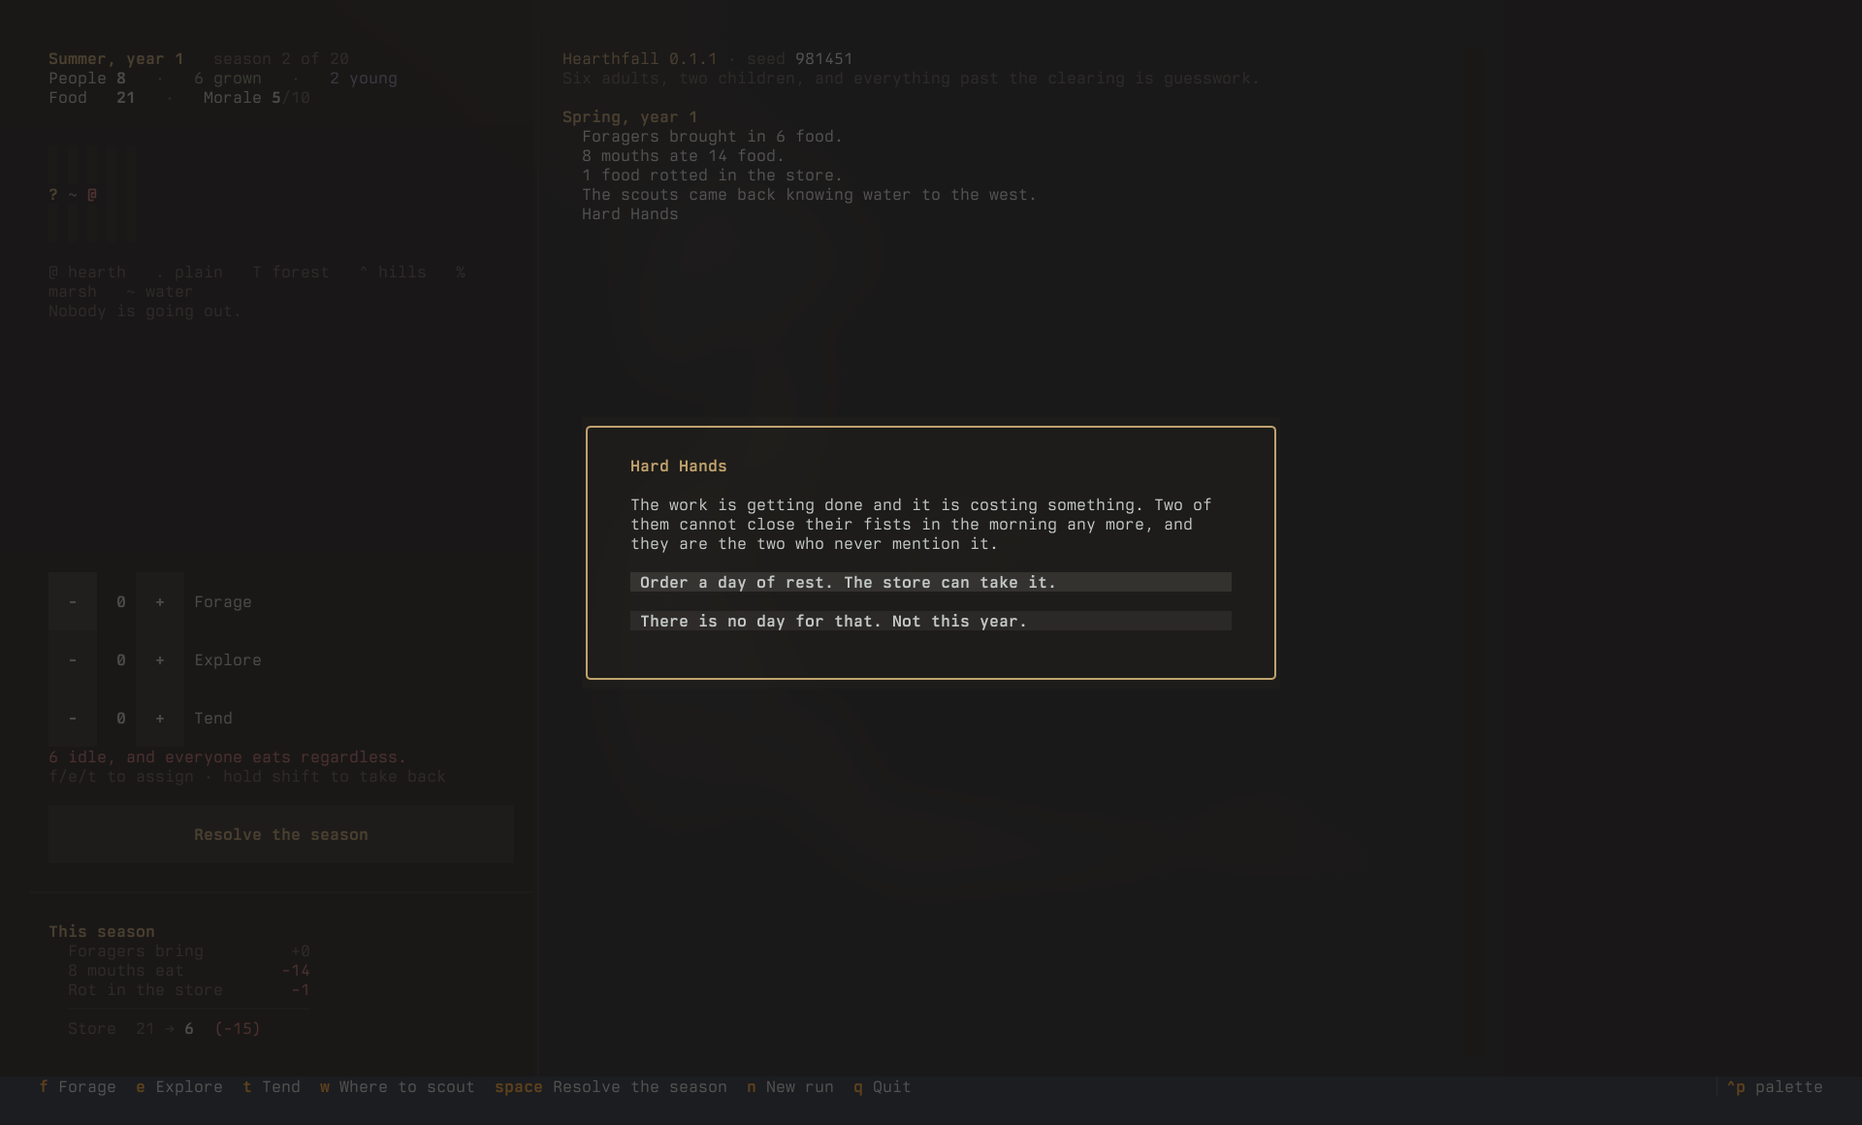
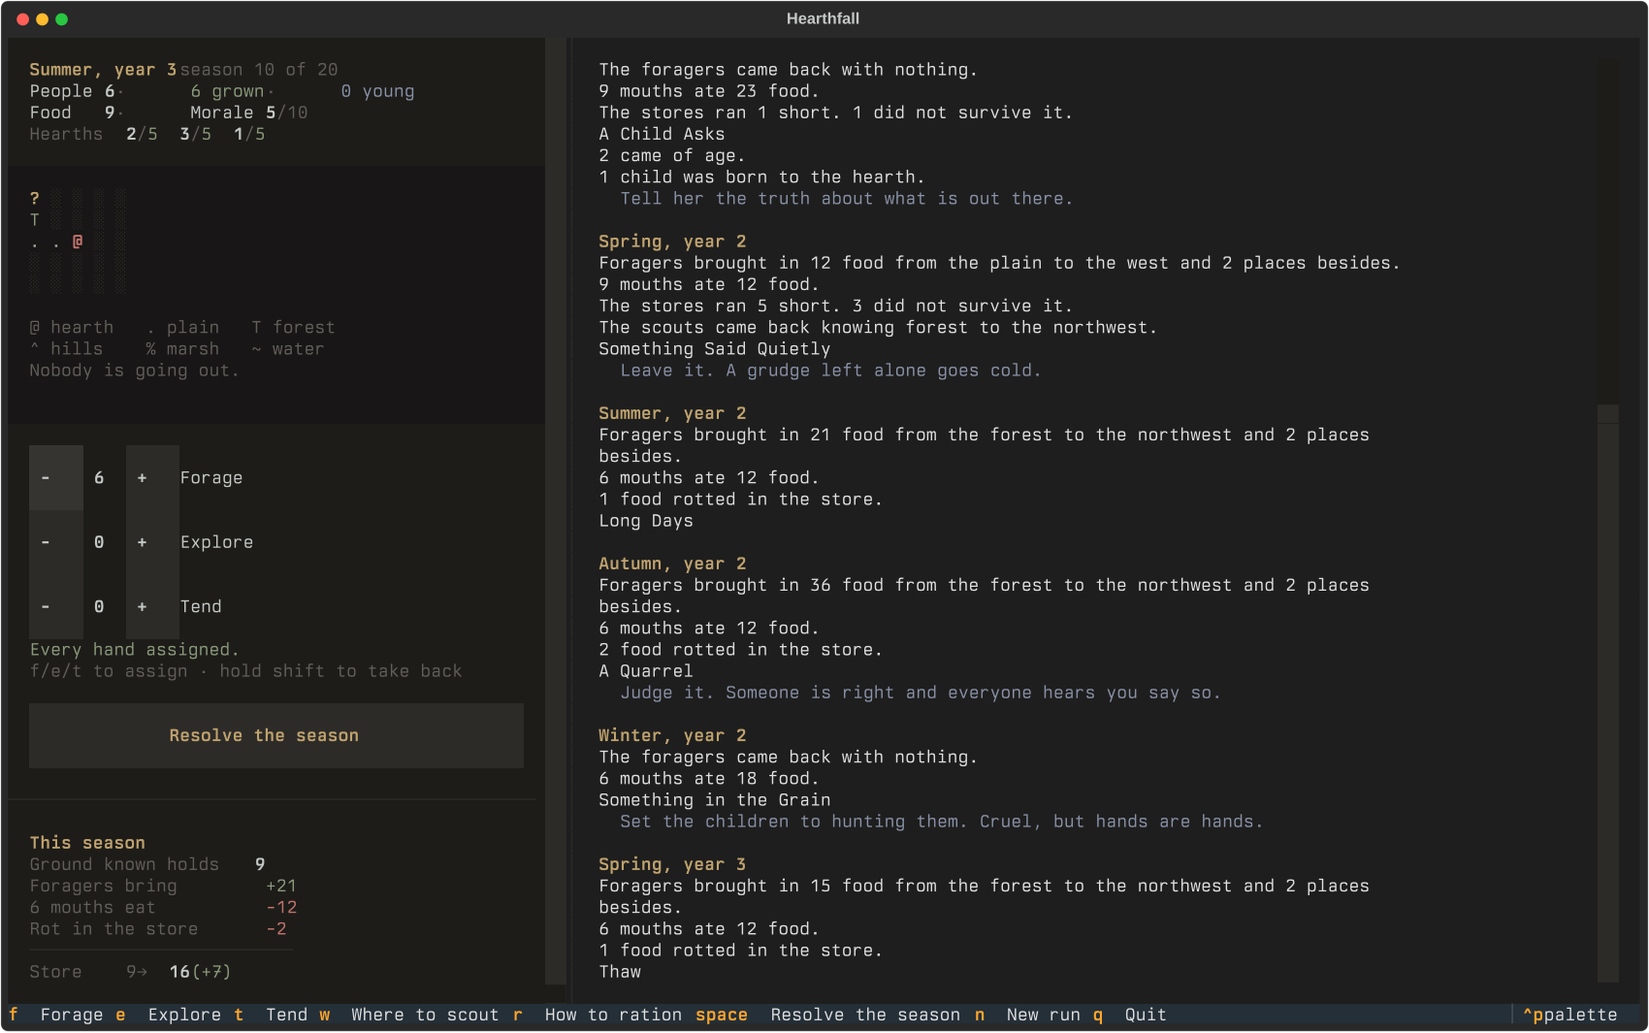
docs: bring the roadmap, spec and README up to the shape the game has now
An audit of the three documents against what five versions actually changed.
The README was the worst of it and the fix there is a correctness fix, not a
polish one.

README

- IT DESCRIBED THE WRONG SPINE. It still carried the pre-2026-08-08 narrow
  version ("scouts reveal enemy composition so you can assemble a counter-force")
  which spec.md §1 replaced with "read the unknown at cost, then commit resources
  you cannot take back". That is the single most important sentence in the
  project and the front door had the superseded one.
- Status said "v0.1.0, Phase 0 of six"; it is v0.5.1 and sub-project 2 of eight.
- The turn section never mentioned that ground you have walked is what caps
  foraging, nor rationing, nor that the corpus now remembers what you chose.
- `r` was missing from the keys.
- Two sections both described the turn, and the older one promised allocating
  people to "war", which does not exist. Merged.
- New screenshot: the old one predates households and the capacity line.

spec.md

- §4 now states that a season holds two decisions, and that rationing exists only
  under scarcity and has no dominant answer, with the two invariants that keep it
  that way.
- §5 records that the pool is derived from households rather than stored, and
  that growth is an earned schedule rather than a roll, including why the RNG is
  deliberately not used there.
- §6 gains tallies. That section spends a warning block telling the author not to
[…]

diff --git a/spec.md b/spec.md
@@ -135,6 +135,22 @@ how many seasons resolve before the game stops and asks you something.
 - **Later:** you set standing orders and the game runs until the director interrupts. Three
   quiet years cost three lines in the chronicle, not twelve screens of clicking.
 
+**A season holds two decisions, not one.** Labour is the first: hands split between foraging,
+scouting, and tending, against a forage ceiling that only new ground can raise. **Rationing is
+the second, and it only exists when the store is short.** Equal shares, the workers first, or
+the children first. It is deliberately absent in a good season, because a question with no
+stakes asked every turn teaches the player to stop reading.
+
+There is no dominant answer, and that is enforced by two invariants in the code: no policy may
+waste food, and a full store must make the policy irrelevant. Measured, an even split is
+*worse* for survival, because spreading a shortfall pushes every hearth into the starvation
+threshold at once. What it buys is that nobody was wronged. Concentrating food saves people and
+makes a household that was fed last and knows it.
+
+A standing question, raised 2026-08-09 and **not yet designed**: whether a season should hold
+*more* steps than these two. It is the most direct answer to an allocation that writes itself,
+and it would reopen this section, so it gets a design conversation rather than an insertion.
+
 This is what "under glass" means concretely. The food system does not vanish when you stop
 allocating foragers by hand; it keeps running, and it can still kill you. It just stops
 asking for your attention until it has something to say.
@@ -159,6 +175,28 @@ The original spec forbade named individuals and the roadmap parked them under *D
 deliberately*. That is knowingly overruled. The condition it was protecting still holds: the
 pool comes first and names are a layer over it, never the foundation. A famine is resolved
 against households, and *then* a rival emerges, because the household it starved has a name.
+
+**The pool is derived, not stored.** `Population.adults`, `child_count`, `total`, and `morale`
+are all computed from the households, so the aggregate can never drift from the kin groups it
+is made of. `morale` is the average of the *living* households, which is what let households
+arrive without touching a single shipped event. It is no longer the whole story though: a clan
+averaging five with one hearth at zero is a different clan from one where everyone is at five,
+and `worst_household_mood` is what tells them apart.
+
+**Growth is a schedule a household earns, not a roll.** A hearth with two adults, a decent
+mood, and a fed season builds a silent meter; when it comes due, a child. A hungry season sets
+it back, so a famine costs years of growth rather than a turn of it. Hearths that outgrow
+themselves split, which is how three kin groups head toward the ten to forty above.
+
+It is deterministic on purpose, and this is the one place the seeded RNG is deliberately *not*
+used. The RNG exists so runs reproduce, not so every mechanic must be a lottery, and a lottery
+here would sever the connection between how you rationed and whether the clan grew. That
+connection is the point: **the hearth you feed last is the hearth that stops growing.**
+
+Two things Brandon asked for that live here and are **not yet designed**: a compatibility or
+attraction meter deciding *which* households pair, and characteristics for it to read. Both
+belong at this layer, not at the named-cast layer, because §5's own ordering says a household
+is what marries. Names are drawn from these later; they are never the foundation.
 
 ### Intel: the fact ledger
 
@@ -229,6 +267,37 @@ of this document and it should be read as such.
   this rule ("Adding a condition key means adding it here and nowhere else"); it is now the
   thing that holds the whole content layer up.
 - **Effects are structured tables, not expression strings.** `food = -5` needs no parser.
+- **Tallies are how the corpus remembers.** A tally is one integer that persists for the run,
+  written by an effect and read by a condition as `tally_<name>`:
+
+  ```toml
+  [event.choice.effect.tally]
+  elder_resentment = 3
+  ```
+  ```toml
+  when = ["tally_elder_resentment > 5", "year > 2"]
+  ```
+
+  Because the write hangs off a **choice**, a later event can require not merely that something
+  happened but that you answered it a particular way. That single addition buys silent progress
+  meters, chains needing several prior events, and payoffs earned across years, and **the
+  evaluator did not grow by one line** to get them. It is the rule above being cashed: a new
+  concept cost one snapshot key.
+
+  Every tally is declared in `data/tallies.toml`, and declaring it is what makes it exist.
+  Effects validate names against the same reference snapshot conditions use, so a misspelled
+  tally fails at load rather than incrementing a counter no condition will ever read.
+
+  **Actors can be roles rather than people.** "The elder" is two integers to the engine and a
+  man with a memory to the player. This is how King of Dragon Pass gets most of its depth, and
+  it means the corpus does not have to wait for the named cast in sub-project 5.
+- **Rarity comes from conditions, never from a weight lottery.** A powerful event should be
+  rare because it is hard to reach. Earned reads as consequence; rolled reads as noise.
+- **A repeatable event is repeatable across a run, not across consecutive seasons.** Measured
+  at v0.5.0, every run in a sixty-seed sample replayed an event verbatim and the worst came
+  round an extra forty-nine times. A cooldown in the draw fixed it without touching the TOML.
+  That is a rule about *drawing*, not an enrichment of the format, and it is a stopgap: the
+  real answer to a thin corpus is more of it. Lower the cooldown as the corpus grows.
 
 > **DIRECT WARNING TO THE AUTHOR.** You built a query grammar for Atrium. You built a taxonomy
 > DSL for your library. You will want to build the perfect event language before you write a
@@ -256,6 +325,36 @@ used to be a map feature scheduled after a content phase. Under this design they
 foundation, so the question that can cancel the project gets asked first and cheapest: *does
 paying to look pull the player forward?* If the answer is no, the premise is wrong and no
 amount of council drama or combat depth retrofits a reason to explore. Stop there.
+
+**It answered yes** (2026-08-09, sub-project 1 slice 2). Over 200 seeds a clan that never
+scouts ends with 1.4 people, one that scouts ends with 6.5, one that also reads winter ends
+with 7.8. The premise holds and the project continues.
+
+### What the build order is now actually solving
+
+Three sub-projects in, the game's real defect has been measured rather than guessed at, and it
+changes what the later sub-projects are *for*.
+
+**The game plateaus.** Partway through a run the allocation stops changing, because exploration
+switches itself off. Two plausible causes were chased and both were wrong:
+
+1. *Not starting food.* The game is too harsh in year one and too safe from year two, and one
+   scalar cannot move those in opposite directions.
+2. *Not population growth.* Growth shipped and works, and tiles known moved 3.8 → 4.0. A sweep
+   closed both levers: faster growth pushes endurance to 98%, and halving what ground yields
+   collapses survival to 62%.
+
+**The cause is that foraging is the clan's only sink for labour, and one sink saturates.**
+About four tiles already support more foragers than a clan of ten can staff, so ground stays
+permanently ahead of hands and scouting has nothing left to buy.
+
+So **sub-projects 6 to 8 are not garnish on a working economy; they are the fix for it.** A
+war-band is a second thing worth spending people on, and that is what makes ground worth taking
+again. Two corollaries follow, and both are load-bearing:
+
+- **A bigger map does not help** and stays deferred. More ground nobody needs is not a game.
+- **More growth does not help either.** Do not reach for either lever again; the measurements
+  are recorded in `balance.py` and `roadmap.md`.
 
 ## 8. Tech decisions and their trade-offs
 

diff --git a/README.md b/README.md
@@ -11,29 +11,64 @@ story, and violence. Grow a hearth into a war-band into a people, or bury them.
 Think *A Dark Room* that grows a spine into *King of Dragon Pass*, rendered in glyphs.
 
 <p align="center">
-  <img src="docs/screenshots/run.png" alt="Hearthfall mid-run: the clan panel, a fog-black map, the season log, and a story event offering two choices">
+  <img src="docs/screenshots/run.png" alt="Hearthfall in year three: the clan panel with its kin groups, a fog-black map, the season ledger showing what the ground supports, and a chronicle of the seasons so far">
 </p>
 
-> **Status: v0.1.0, Phase 0 of six.** Playable start to finish, and deliberately small:
-> one map, three jobs, thirty events, twenty seasons. There is no combat yet, and no
-> enemy, which means the spine below is designed but not yet built. See
-> [`roadmap.md`](roadmap.md) for what each slice has to prove before the next one starts.
+> **Status: v0.5.1. Sub-project 2 of eight, in progress.** Playable start to finish, and
+> deliberately small: one map, three jobs, twenty seasons. There is no combat yet and no
+> enemy, so the later tiers of the spine below are designed but not built. See
+> [`roadmap.md`](roadmap.md) for what each slice has to prove before the next one starts,
+> and for the standing rule that no slice ships until a year of it has been *played*.
 
 ## The spine
 
-Scouts reveal the map *and* reveal enemy composition. That intel lets you assemble a
-counter-force before you commit.
+**Read the unknown at cost. Then commit resources you cannot take back.**
 
-Exploration and combat are the same loop. You do not fight blind; you fight prepared, and
-the fun lives in the preparation rather than the swing. A scout that comes back with *"forty
-of them, mostly spears, no archers, holding the high ground"* is worth more than a sword.
+That is the whole game, at every scale it reaches. Early it is *this tile is forest*, paid for
+with hands you needed elsewhere, committed as a season of foraging you cannot undo. Later it is
+*Stonefold fields forty spears and no bows*, and the commitment is a war-stack.
+
+The mechanical form is that **fog is a property of a fact, not of a tile.** Everything knowable
+has a value, an age, and a price to look again. Terrain never goes stale. A neighbour's grain
+store goes stale in a season, and their intent goes stale faster. You are always acting on a
+picture that is partly out of date, and the game is choosing which part you can afford to be
+wrong about.
+
+It already pays. Measured over 200 seeds, a clan that never scouts ends with 1.4 people; one
+that scouts ends with 6.5; one that also reads the seasons ends with 7.8.
 
 ## The turn
 
-Time is seasonal, four turns to a year, and winter never negotiates. Each turn you read the
-state, allocate finite people to work or exploration or war, watch the engine resolve it,
-and live with what comes back. The tension is always the same shape: not enough hands, not
-enough food, and the dark is full of things you haven't scouted yet.
+Time is seasonal, four turns to a year, and winter never negotiates. The tension is always
+the same shape: not enough hands, not enough food, and the dark is full of things you have
+not scouted yet. Each season you split a finite clan three ways:
+
+- **Forage** brings in food, scaled by the season *and by the ground you have walked*. Each
+  known tile supports only so many foragers; hands beyond that come back with nothing. Winter
+  yields nothing anywhere, because there is nothing out there to find.
+- **Explore** reveals a tile of the dark, and costs you the hands that went. It is the only
+  thing that raises the ceiling on how much labour can be spent on food at all.
+- **Tend** slows the rot in the store, and can never quite stop it.
+
+Then the season resolves, the world asks you something with no clean answer, and you live
+with it. Children eat and cannot work. Everyone eats regardless.
+
+**When the store cannot cover the winter, you decide who goes short.** Equal shares, the
+workers first, or the children first. There is no right answer: an even split is measurably
+*worse* for survival, because spreading a shortfall pushes every hearth into the starvation
+threshold at once. What it buys is that nobody was wronged. The clan is kin groups, not a
+number, and the hearth you feed last remembers being fed last.
+
+## The clan remembers
+
+Events are TOML, and they have a memory. A choice can write to a counter that persists for the
+whole run, and a later event can require not merely that something happened but that you
+answered it a particular way.
+
+Overrule the elder in your first year and it runs, over years, toward a man who stops arguing
+and starts arranging. Defer to him, at a cost you pay that evening, and it runs somewhere else.
+Nothing announces this and no meter is shown. The powerful moments are rare because they are
+hard to reach, never because a die came up short.
 
 ## Architecture
 
@@ -43,25 +78,17 @@ is a thin, shed-able skin over it.
 ```
 src/hearthfall/engine/   pure logic, stdlib only, fully tested
 src/hearthfall/tui/      Textual skin; the engine does not know it exists
-src/hearthfall/data/     TOML content: events, terrain, units, peoples
+src/hearthfall/data/     TOML content: events, tallies, terrain
 tests/                   the engine is tested; the skin is not
 ```
 
 You can drive a full game from a Python REPL with zero terminal. Every random draw goes
 through one seeded, injectable RNG, so a seed reproduces a run exactly. Both properties are
-enforced by tests, not by good intentions.
+enforced by tests, not by good intentions, and so is the engine's freedom from dependencies.
 
-## What a turn looks like
-
-Time is seasonal, four turns to a year. Each season you split a finite clan three ways:
-
-- **Forage** brings in food, scaled by the season. In winter it brings in nothing at all,
-  because there is nothing out there to find.
-- **Explore** reveals a tile of the dark, and costs you the hands that went.
-- **Tend** slows the rot in the store, and can never quite stop it.
-
-Then the season resolves, the world asks you something with no clean answer, and you live
-with it. Children eat and cannot work. Everyone eats regardless.
+The language choice was re-opened against Rust in August 2026 and confirmed; `spec.md` §8 has
+the reasoning and the measurements. What a stricter type system would have bought is bought
+directly instead: pyright runs in strict mode over the engine and gates CI at zero errors.
 
 ## Playing
 
@@ -71,8 +98,8 @@ uv venv && uv pip install -e .
 .venv/bin/hearthfall --seed 42   # replay a run exactly
 ```
 
-`f` `e` `t` assign a job, shift takes one back, `w` cycles where the scouts go, space
-resolves the season.
+`f` `e` `t` assign a job, shift takes one back, `w` cycles where the scouts go, `r` chooses
+how to ration a short store, space resolves the season.
 
 ## Requirements
 
@@ -88,7 +115,8 @@ resolves the season.
 ## Documentation
 
 - [`spec.md`](spec.md): the contract. Read it before changing semantics.
-- [`roadmap.md`](roadmap.md): build phases and their kill gates.
+- [`roadmap.md`](roadmap.md): the eight sub-projects, their kill gates, and what playing
+  each one actually revealed.
 - [`patchnotes.md`](patchnotes.md): release notes.
 
 ## License

diff --git a/roadmap.md b/roadmap.md
@@ -153,11 +153,16 @@ Built in slices, each green before the next starts.
 - [ ] **Slice 4: reports.** Scouts return the facts they learned, rendered as prose.
 - [ ] **Slice 5: staleness that bites.** `PRESENCE` facts age visibly and an old fact should
       be able to mislead. Adds the first staleness keys to `snapshot()`.
-- [ ] **Slice 6: corpus toward 80**, terrain-keyed.
+- [ ] **Slice 6: corpus toward 80**, terrain-keyed. **More urgent than it looks.** At 34
+      events every run in a sixty-seed sample replayed one verbatim; a draw cooldown took that
+      to nine, but a cooldown is a stopgap for a corpus too small to avoid repeating itself.
+      Lower `EVENT_COOLDOWN` as this lands.
 
-Deferred within this sub-project, deliberately: a larger map. It is a balance change on top
-of a balance change, and slice 2 already moves every food constant. Do it once slice 2's
-numbers have settled, not alongside them.
+**A larger map: deferred, and the reason has changed.** It was parked as a balance change on
+top of a balance change, to be revisited once slice 2's numbers settled. They have settled, and
+the answer is now *no* rather than *not yet*: measured, the clan already stops needing new
+ground around four tiles, so a bigger map adds ground nobody walks to. Revisit only after
+sub-projects 6 to 8 give hands a second thing to do. See `spec.md` §7.
 
 > **The finding that reframes this sub-project (2026-08-08).** Exploring is currently almost
 > mechanically pointless. `FORAGE_YIELD` is keyed on season alone, so a known tile feeds
@@ -258,9 +263,6 @@ writes reports in the scouts' voice.
 Note the constraint from `spec.md` §5: the pool comes first and names are a layer over it.
 This sub-project ships **no named people**. It ships the thing they will later be drawn from.
 
-Note the constraint from `spec.md` §5: the pool comes first and names are a layer over it.
-This slice ships **no named people**. It ships the thing they will later be drawn from.
-
 ## Sub-project 3: the chronicle (planned)
 
 *Question: can the game run three years unattended and still feel like yours?*
@@ -300,6 +302,18 @@ commitment should show its arithmetic before you make it.
 - [ ] Council decisions rendered inline in the chronicle
 - [ ] Corpus entries gated on ring composition and household standing
 
+> **Sub-projects 6 to 8 are the plateau fix, not garnish on a working economy.**
+>
+> Measured after sub-project 2 shipped: the game stops having decisions partway through
+> because exploration switches itself off, and the cause is that **foraging is the clan's only
+> sink for labour**. Four tiles already support more foragers than a clan of ten can staff, so
+> ground stays permanently ahead of hands and scouting has nothing left to buy.
+>
+> A war-band is a second thing worth spending people on, and that is what makes new ground
+> worth taking again. Two things follow, both load-bearing: a **bigger map does not help**, and
+> **more growth does not help either**. Both were tried and measured; see `spec.md` §7 and the
+> note on `STARTING_FOOD` in `balance.py`. Do not reach for either lever again.
+
 ## Sub-project 6: violence (planned)
 
 *Question: is losing people to a fight you misread painful in the right way?*
@@ -338,6 +352,8 @@ Parked so they stop asking.
 - A maneuvering map with fronts and army movement (`spec.md` §9.8; this one is not deferred,
   it is refused)
 
+- *A larger map.* Now refused on measurement rather than sequencing; see sub-project 1.
+
 **No longer deferred, and why:**
 
 - *Named individual characters.* Un-parked for sub-project 5. The condition that justified
@@ -345,3 +361,30 @@ Parked so they stop asking.
   households are the join, names are drawn from households and never the foundation.
 - *Save/load beyond a seed and a turn log.* Un-parked for sub-project 3. Correct to defer for
   a 30-minute run; a campaign that reaches tier 4 outlives a sitting.
+
+---
+
+## Raised, not yet designed
+
+Brandon's asks from 2026-08-09 that have a home but no plan. Recorded so they are not lost and
+not quietly built either.
+
+- **More than two decisions in a season.** The most direct answer to an allocation that writes
+  itself, and the one proposal on the table that creates a second thing to *decide* rather than
+  a second thing to compute. It reopens `spec.md` §4 and every slice so far sits on the
+  one-order-per-season shape, so it needs a design conversation first. **Currently the most
+  promising unbuilt idea.**
+- **An attraction web: compatibility meters and characteristics deciding which households
+  pair.** Lands in sub-project 2 slice 3. Belongs at the household layer rather than the named
+  cast, because `spec.md` §5 says a household is what marries.
+- **Events that are rare *and* game-altering.** Half-answered: rarity-by-condition is in and
+  demonstrated by the elder chain. What is missing is an effect vocabulary big enough for
+  "game-altering" (revealing ground, granting capacity, a modifier that lasts the run). That is
+  a real engine question and should be designed against `spec.md` §6's warning, not around it.
+
+**Settled without code, for the record:** everything already randomises per new game, including
+the map, terrain, and event order. `main()` and the new-run action both draw a fresh seed.
+
+**Still unsettled:** `Orders.explore` versus `Orders.scout`. Every design conversation says
+scout; the code says explore. Settle it before sub-project 1 slice 4 writes reports in the
+scouts' voice.
